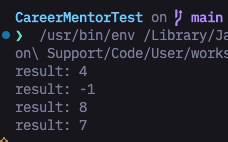
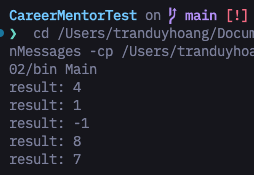
update: DSA

diff --git a/DSA/Main.java b/DSA/Main.java
@@ -2,6 +2,7 @@ public class Main {
 	public static void main(String[] args) {
 		System.out.println("result: " + solve(new int[] { 4, 2, 2, 3, 1, 4, 7, 8, 9 }));
 		System.out.println("result: " + solve(new int[] { 1, 1, 1, 1, 1 }));
+		System.out.println("result: " + solve(new int[] { 9, 8, 7, 6, 5, 4, 3, 2, 1 }));
 		System.out.println("result: " + solve(new int[] { 8, 8, 8, 8, 8, 8, 8, 9, 10 }));
 		System.out.println("result: " + solve(new int[] { 7, 7, 7, 7, 7, 7, 7, 7, 7, 9 }));
 	}
@@ -22,7 +23,7 @@ public class Main {
 			// "left[" + left + "]:" + arr[left] + " - start[" + start + "]:" + arr[start] +
 			// " - right[" + right + "]:"
 			// + arr[right]);
-			if (arr[start] < arr[left] || arr[start] >= arr[right]) {
+			if (arr[start] < arr[left] || arr[start] > arr[right] || (arr[start] == arr[right] && start < right)) {
 				start++;
 				left = 0;
 				right = arr.length - 1;
